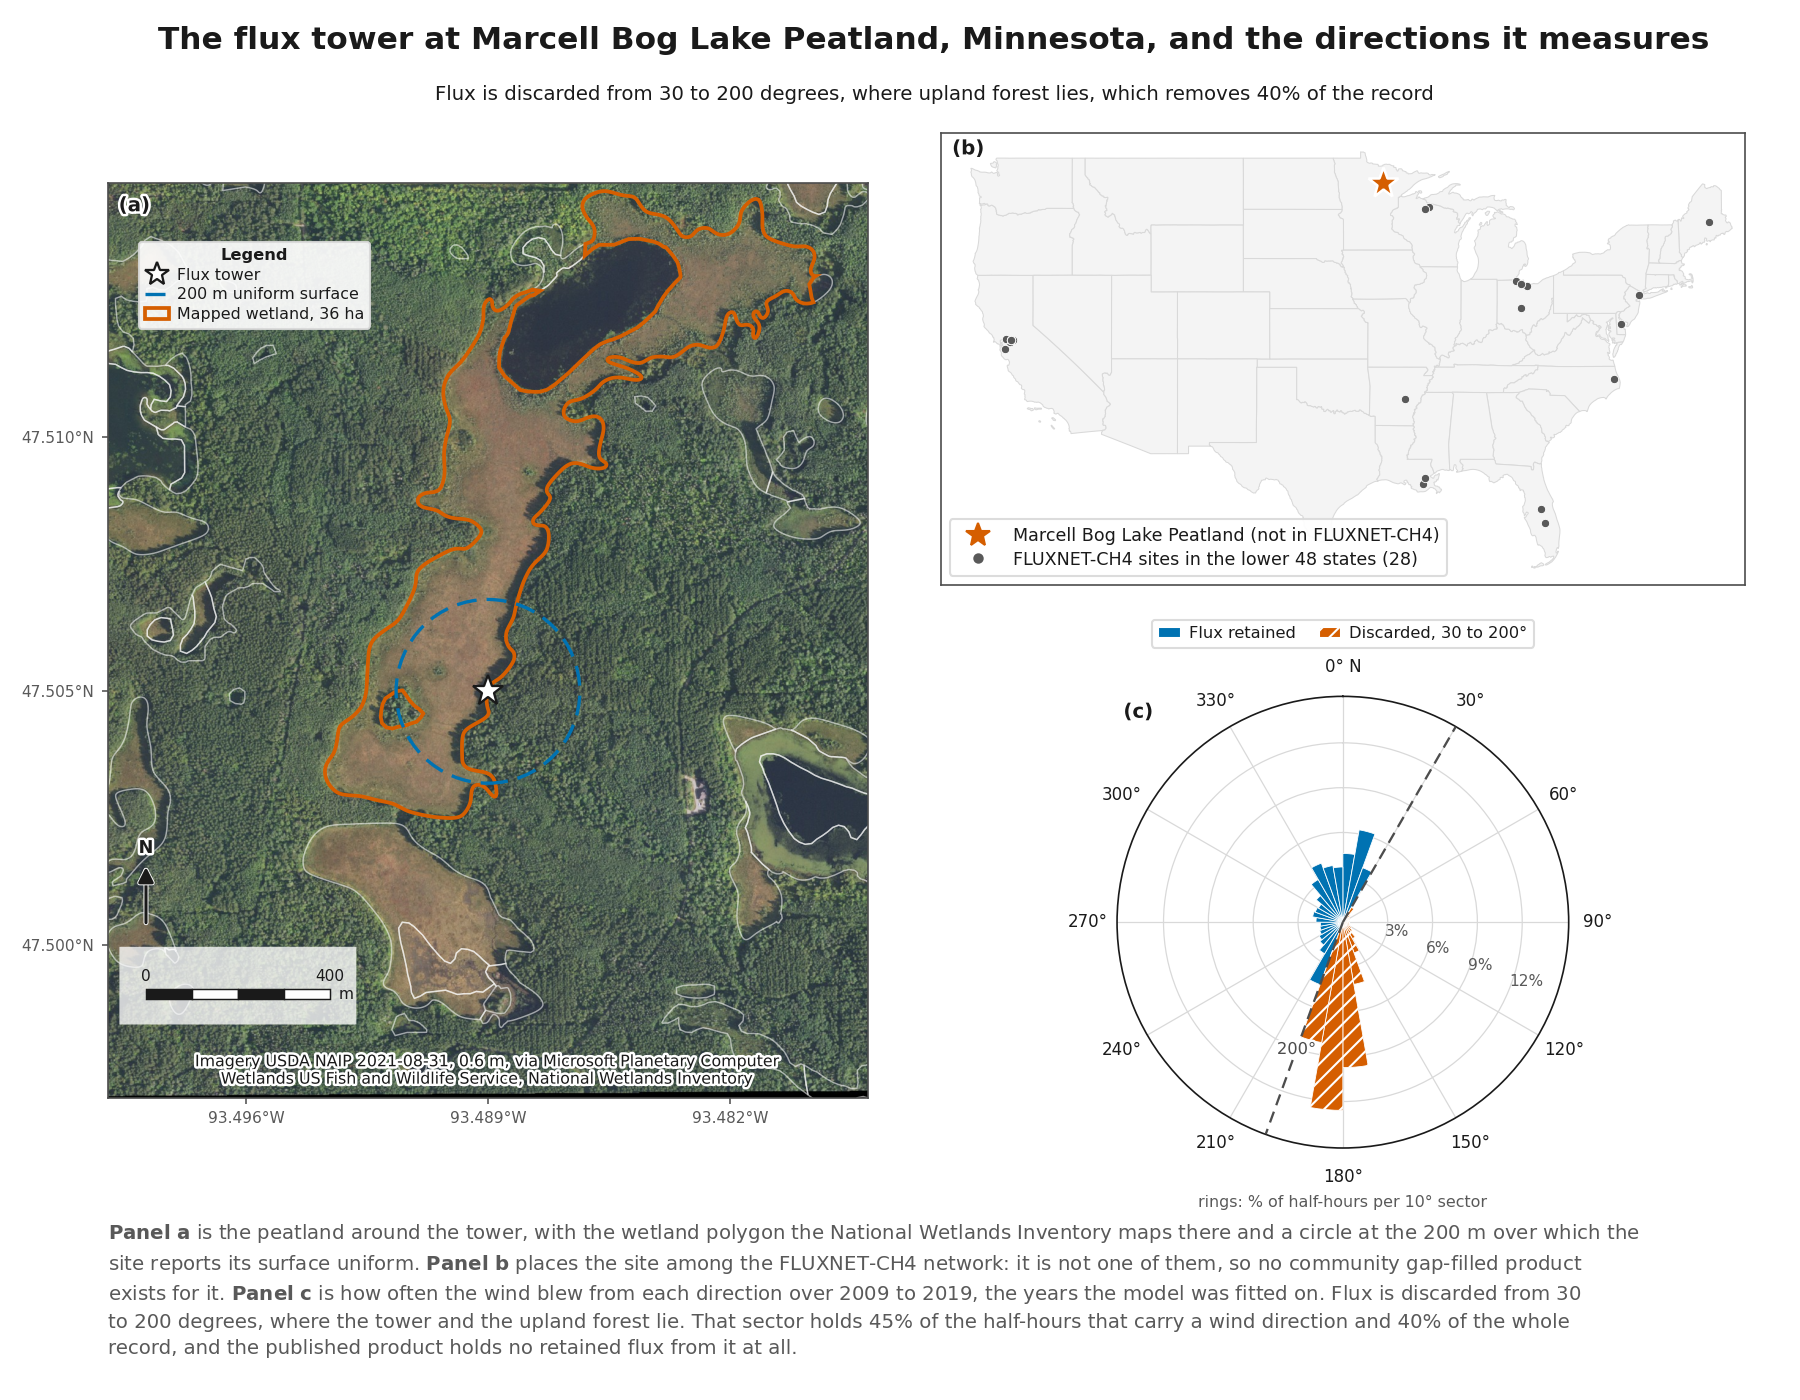
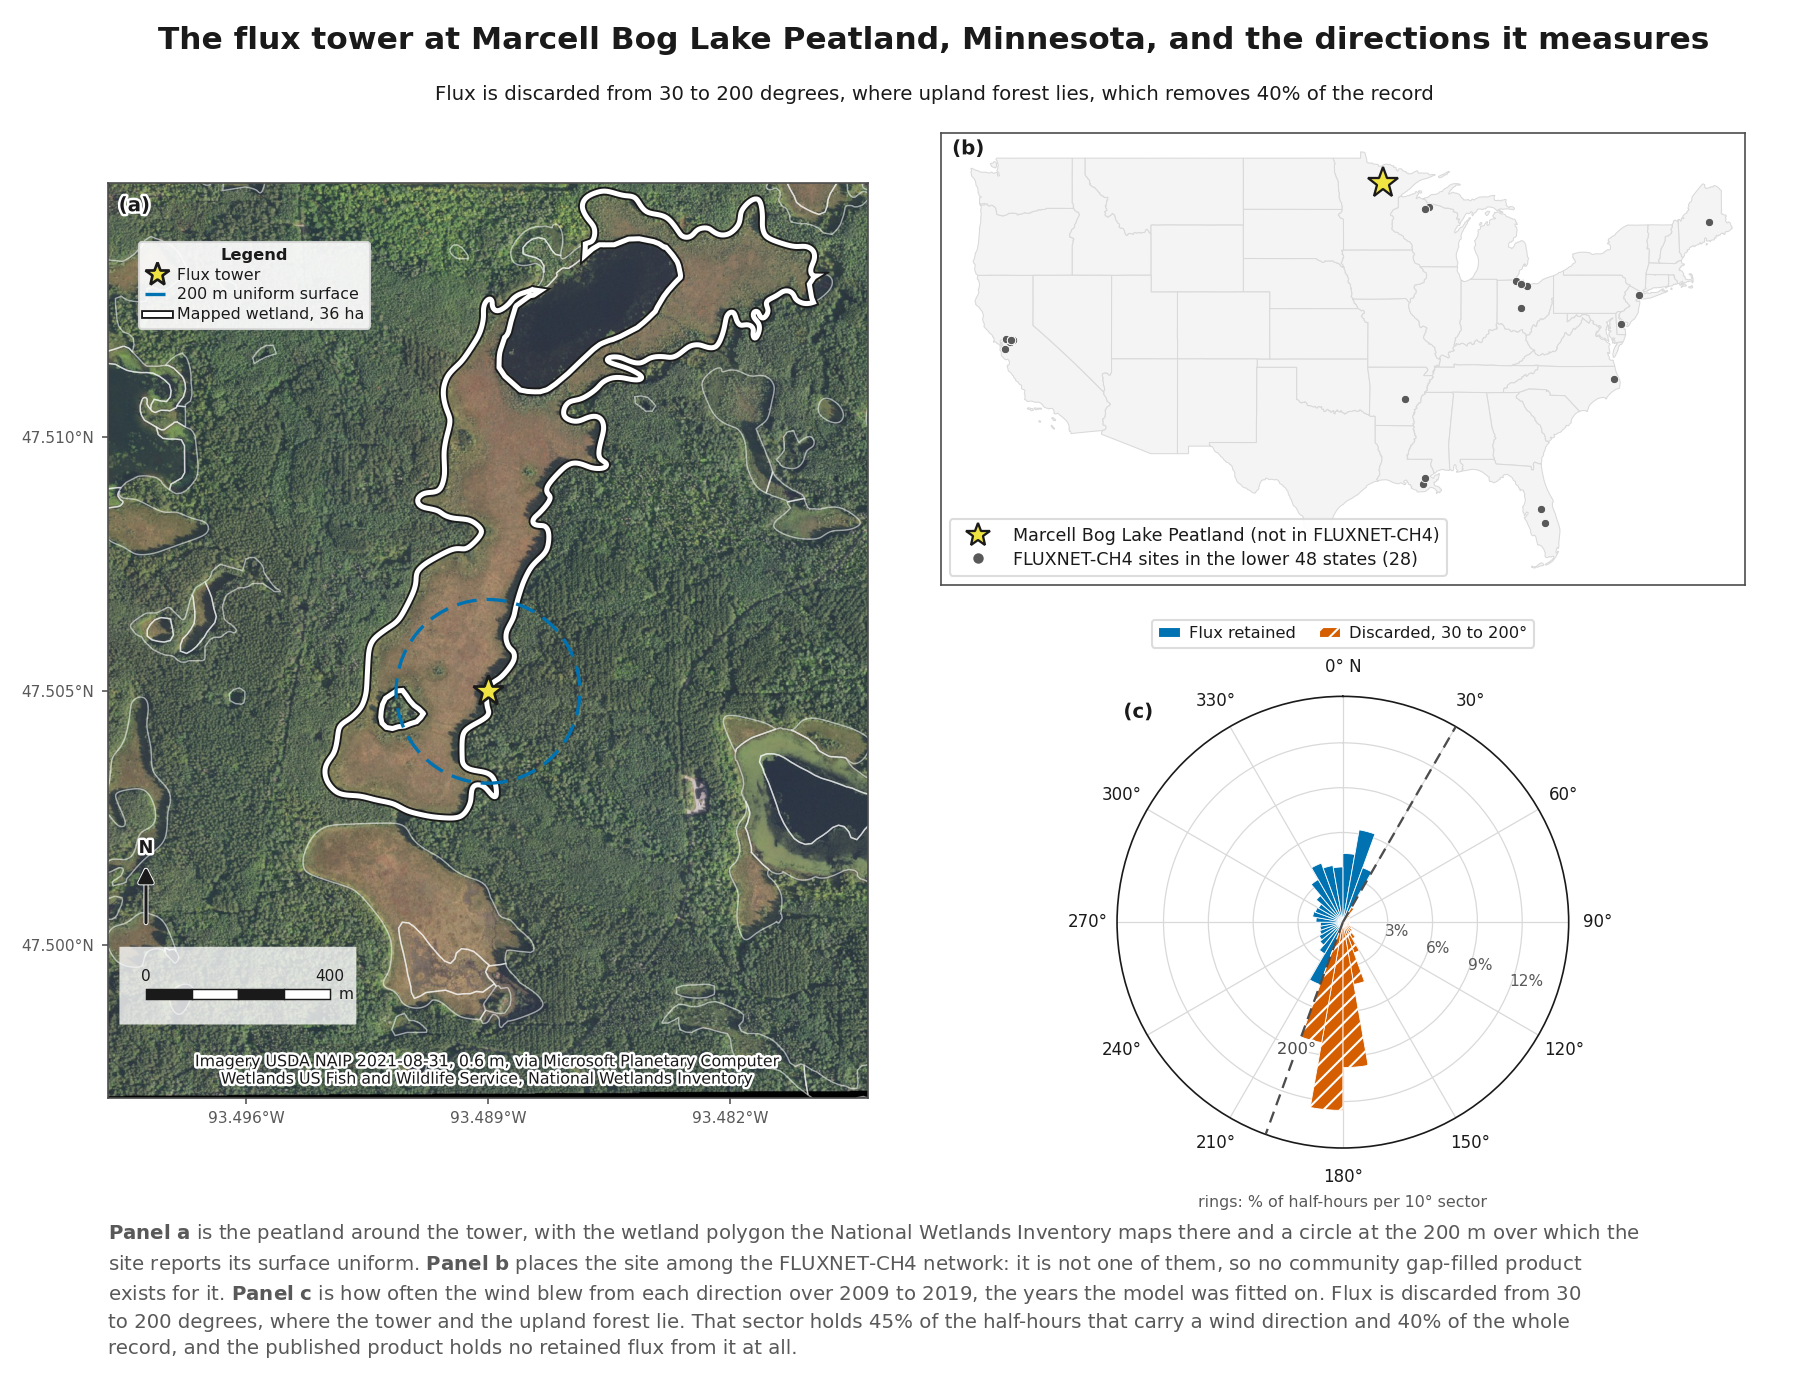
Give the site and tower their own hue

diff --git a/src/study/sitemap.py b/src/study/sitemap.py
@@ -25,6 +25,8 @@ from matplotlib.lines import Line2D
 from matplotlib.patches import Circle, Patch, Polygon
 
 from ingest import paths, site
+import matplotlib.patheffects as pe
+
 from study import plotstyle as ps
 
 #: Extent of the imagery crop, degrees, matching the file stored under geodata/.
@@ -47,8 +49,16 @@ EXCLUDED_SECTOR = (30.0, 200.0)
 #: The tower, drawn the same way on the map and in the legend.
 #: White fill with a dark edge, so the tower reads the same over dark forest,
 #: over light peat, and on the legend's white ground.
-TOWER_MARKER = dict(marker="*", markersize=15, markerfacecolor="white",
-                    markeredgecolor=ps.INK, markeredgewidth=1.1, linestyle="none")
+#: The tower: the one point a reader needs to find first on this panel, so it
+#: takes the emphasis the boundary used to. Cased dark, because the ground beside
+#: it runs from luminance 0.04 under the forest to 0.54 on the bare peat.
+TOWER_MARKER = dict(marker="*", markersize=15, markerfacecolor=ps.SITE,
+                    markeredgecolor=ps.INK, markeredgewidth=1.3, linestyle="none")
+
+#: The same site among the network, in the panel beside it. Same color, same
+#: meaning; cased dark because the states behind it are pale.
+SITE_MARKER = dict(marker="*", markersize=15, markerfacecolor=ps.SITE,
+                   markeredgecolor=ps.INK, markeredgewidth=1.1, linestyle="none")
 
 
 SITEMAP_TEXT = ps.FigureText(
@@ -143,6 +153,17 @@ def to_meters(lon, lat, origin: tuple[float, float]) -> tuple[np.ndarray, np.nda
 # --------------------------------------------------------------------------
 
 
+#: The mapped wetland's boundary: cartography on this panel, not a study
+#: encoding. It took the support orange once, beside a wind rose where orange
+#: meant discarded. Heavy white over a dark casing separates it from the 48 thin
+#: white outlines by weight rather than by hue, and holds against a scene whose
+#: brightest tone is luminance 0.31. Yellow was measured as a fallback at 68.8
+#: from its nearest scene tone and was not needed.
+BOUNDARY_STYLE = {"edgecolor": "white", "linewidth": 2.4,
+                  "path_effects": [pe.Stroke(linewidth=4.2, foreground=ps.INK),
+                                   pe.Normal()]}
+
+
 def draw_site(ax, image, wetlands: dict, origin: tuple[float, float]) -> None:
     """Imagery, the mapped wetland, the tower, and the homogeneity radius."""
     west, south, east, north = IMAGE_BOUNDS
@@ -162,8 +183,8 @@ def draw_site(ax, image, wetlands: dict, origin: tuple[float, float]) -> None:
             if holds_tower:
                 tower_ring = feature["properties"]
                 ax.add_patch(Polygon(np.column_stack([ex, ny]), closed=True,
-                                     facecolor="none", edgecolor=ps.OUTSIDE,
-                                     linewidth=1.8, zorder=3))
+                                     facecolor="none", zorder=3,
+                                     **BOUNDARY_STYLE))
             else:
                 ax.add_patch(Polygon(np.column_stack([ex, ny]), closed=True,
                                      facecolor="none", edgecolor="white",
@@ -191,8 +212,10 @@ def draw_site(ax, image, wetlands: dict, origin: tuple[float, float]) -> None:
                **{**TOWER_MARKER, "markersize": 12}),
         Line2D([], [], color=ps.INSIDE, linestyle=(0, (6, 3)), linewidth=1.6,
                label=f"{SURFACE_HOMOGENEITY_M:.0f} m uniform surface"),
-        Patch(facecolor="none", edgecolor=ps.OUTSIDE, linewidth=1.8,
-              label=f"Mapped wetland, {acres * 0.4047:.0f} ha"),
+        Line2D([], [], linestyle="-", color=BOUNDARY_STYLE["edgecolor"],
+               linewidth=BOUNDARY_STYLE["linewidth"],
+               path_effects=BOUNDARY_STYLE["path_effects"],
+               label=f"Mapped wetland, {acres * 0.4047:.0f} ha"),
     ]
     key = ps.legend(ax, handles=handles, labels=[h.get_label() for h in handles],
                     loc="upper left", fontsize=7.6, borderpad=0.4, labelspacing=0.3,
@@ -231,8 +254,7 @@ def draw_network(ax, states: dict, sites: pd.DataFrame,
     inside = sites[sites.LON.between(-128, -65) & sites.LAT.between(24, 50)]
     ax.plot(inside.LON, inside.LAT, linestyle="none", marker="o", markersize=4.0,
             color=ps.MUTED, markeredgecolor="white", markeredgewidth=0.4, zorder=3)
-    ax.plot(here[0], here[1], marker="*", markersize=15, color=ps.OUTSIDE,
-            markeredgecolor="white", markeredgewidth=1.2, zorder=5)
+    ax.plot(here[0], here[1], **SITE_MARKER, zorder=5)
 
     ax.set_xlim(-127, -66); ax.set_ylim(23.5, 50.5)
     ax.set_aspect(1 / math.cos(math.radians(38)))
@@ -242,7 +264,7 @@ def draw_network(ax, states: dict, sites: pd.DataFrame,
         spine.set_edgecolor(ps.BOUNDARY)
 
     handles = [
-        Line2D([], [], marker="*", color=ps.OUTSIDE, linestyle="none", markersize=12,
+        Line2D([], [], **{**SITE_MARKER, "markersize": 12},
                label=f"{site.SITE_NAME} (not in FLUXNET-CH4)"),
         Line2D([], [], marker="o", color=ps.MUTED, linestyle="none", markersize=4,
                label=f"FLUXNET-CH4 sites in the lower 48 states ({len(inside)})"),

diff --git a/tests/test_sitemap.py b/tests/test_sitemap.py
@@ -68,12 +68,23 @@ def test_a_two_hundred_meter_radius_is_a_circle_on_the_metric_grid():
     ps.plt.close(fig)
 
 
-def test_the_tower_polygon_is_distinguished_from_its_neighbors():
+def test_the_tower_polygon_is_distinguished_by_weight_not_by_a_study_hue():
+    """The boundary is cartography, so it must not borrow the support encoding.
+
+    It took the support orange once, beside a wind rose where orange meant
+    discarded, which is the collision the palette convention exists to prevent.
+    Emphasis now comes from line weight against the other mapped polygons.
+    """
+    from matplotlib.colors import to_rgba
+
     fig = sitemap.site_overview(image(), wetlands(), states(), sites(), shares())
     ax = fig.axes[0]
-    edges = [p.get_edgecolor() for p in ax.patches if type(p).__name__ == "Polygon"]
-    from matplotlib.colors import to_rgba
-    assert to_rgba(ps.OUTSIDE) in edges
+    polygons = [p for p in ax.patches if type(p).__name__ == "Polygon"]
+    widths = sorted(p.get_linewidth() for p in polygons)
+    assert widths[-1] >= 2 * widths[0], "the mapped wetland is not heavier than its neighbors"
+    for polygon in polygons:
+        assert polygon.get_edgecolor() != to_rgba(ps.OUTSIDE)
+        assert polygon.get_edgecolor() != to_rgba(ps.INSIDE)
     ps.plt.close(fig)
 
 
@@ -158,3 +169,49 @@ def test_the_wind_record_is_restricted_to_the_study_window():
     counts = sitemap.wind_shares().attrs
     assert counts["half_hours"] == 192816       # 2009-01 to 2019-12
     assert counts["with_wind_direction"] == 172639
+
+
+def test_the_site_is_yellow_in_both_panels_so_the_star_means_one_thing():
+    """A reader meeting a star in both panels assumes it means the same thing."""
+    from matplotlib.colors import to_rgba
+
+    fig = sitemap.site_overview(image(), wetlands(), states(), sites(), shares())
+    site_panel, network = fig.axes[0], fig.axes[1]
+    stars = [l for ax in (site_panel, network) for l in ax.lines if l.get_marker() == "*"]
+    assert len(stars) >= 2
+    for star in stars:
+        assert to_rgba(star.get_markerfacecolor()) == to_rgba(ps.SITE)
+        assert to_rgba(star.get_markeredgecolor()) == to_rgba(ps.INK), "needs a dark casing"
+    ps.plt.close(fig)
+
+
+def test_orange_now_means_only_discarded_on_this_figure():
+    """It marked the wetland boundary and the site star as well, which it no longer does."""
+    from matplotlib.colors import to_rgba
+
+    fig = sitemap.site_overview(image(), wetlands(), states(), sites(), shares())
+    orange = to_rgba(ps.OUTSIDE)
+    for ax in (fig.axes[0], fig.axes[1]):
+        for line in ax.lines:
+            assert to_rgba(line.get_markerfacecolor()) != orange
+            assert to_rgba(line.get_markeredgecolor()) != orange
+        for patch in ax.patches:
+            assert to_rgba(patch.get_facecolor()) != orange
+            assert to_rgba(patch.get_edgecolor()) != orange
+    # The wind rose is the one place it survives, where it does mean discarded.
+    rose = fig.axes[2]
+    assert any(to_rgba(p.get_facecolor()) == orange for p in rose.patches)
+    ps.plt.close(fig)
+
+
+def test_a_white_casing_would_vanish_on_the_network_panel():
+    """Why the star is cased dark: the states behind it are near-white."""
+    def luminance(value: str) -> float:
+        rgb = np.array([int(value[i:i + 2], 16) / 255 for i in (1, 3, 5)])
+        linear = np.where(rgb <= 0.04045, rgb / 12.92, ((rgb + 0.055) / 1.055) ** 2.4)
+        return float(np.dot(linear, [0.2126, 0.7152, 0.0722]))
+
+    # A white casing is a tenth of the scale from the ground it would sit on; the
+    # dark one is nine tenths of it away.
+    assert abs(luminance("#FFFFFF") - luminance("#F4F4F4")) < 0.10
+    assert abs(luminance(ps.INK) - luminance("#F4F4F4")) > 0.85

diff --git a/src/study/plotstyle.py b/src/study/plotstyle.py
@@ -46,15 +46,23 @@ from ingest import paths
 # apart under deuteranopia and 93.3 under protanopia.
 #
 #   FITTED  #009E73  the range across the eight fitted models
+#   SITE    #F0E442  the site, and the tower on it
 #
-# Scoped to the two forecast figures only. It exists because the study's halves
+# `FITTED` is scoped to the two forecast figures only. It exists because the study's halves
 # ask different questions: the reconstruction figures are about support and the
 # forecast figures are about method, so neither set needs the other's encoding.
 # A second blue was tried here and removed, because blue already means retained.
 #
+# `SITE` marks the flux tower in the site panel and the same site among the
+# network in the panel beside it. A reader meeting a star in both panels assumes
+# it means the same thing, and it does. It carries a dark casing in both, because
+# it measures 0.161 in luminance from the pale state fill and 0.207 from the
+# brightest ground near the tower, and a white casing would vanish on the first.
+#
 # Anything else carrying a hue is cartography rather than encoding, is local to
 # the panel it appears on, and is not a general-purpose accent. The mapped
-# wetland boundary on the site map is the only such case.
+# wetland boundary is the only such case: heavy white over a dark casing, which
+# separates from its thin white neighbors by weight rather than by hue.
 #
 # **None of these is available for reuse on a new figure without first checking
 # what it already means.** That check has failed twice: sky blue was introduced
@@ -63,6 +71,11 @@ from ingest import paths
 # Both were caught after the figure was built rather than before.
 INSIDE = "#0072B2"
 OUTSIDE = "#D55E00"
+
+#: The site and its tower, on the site map only. Okabe-Ito yellow, measured
+#: against the imagery it sits on: 41.3 from the light peat beside the tower and
+#: 101.5 from the dark forest, under the worst simulated deficiency.
+SITE = "#F0E442"
 
 #: The fitted models in the two forecast figures, per the convention above.
 #: Okabe-Ito bluish green, chosen by measurement: it clears `INSIDE` by 20.9 and

diff --git a/notes/study.md b/notes/study.md
@@ -973,6 +973,47 @@ Vector output is not produced. These are read in a README, which will not displa
 one, and every figure is regenerable from its function if a document ever needs
 one.
 
+## The palette convention, and the two collisions that produced it
+
+Recorded in `src/study/plotstyle.py`. Three hues carry meaning across the set and
+each carries exactly one:
+
+| | | |
+|---|---|---|
+| `INSIDE` | `#0072B2` | inside, or retained |
+| `OUTSIDE` | `#D55E00` | outside, or discarded |
+| `FITTED` | `#009E73` | the range across the eight fitted models |
+| `SITE` | `#F0E442` | the site, and the tower on it |
+
+The first two are the support encoding, and they are the strongest separation in
+the set: 111.7 apart under deuteranopia and 93.3 under protanopia. `FITTED` is
+scoped to the two forecast figures, and exists because the study's halves ask
+different questions. `SITE` is the site map only.
+
+The mapped wetland boundary is cartography rather than an encoding: heavy white
+over a dark casing, separating from its 48 thin white neighbors by weight. Yellow
+was measured as a fallback at 68.8 from its nearest scene tone and was not needed.
+
+**None of these is available for reuse without checking what it already means,
+and that check has failed twice.** Sky blue was introduced for the fitted range
+beside a blue that already meant retained. The support orange was borrowed for
+the wetland boundary beside a wind rose where orange meant discarded, and it also
+marked the site in the network panel, so one hue was doing three jobs on one
+figure. Both were caught after the figure was built.
+
+**What the contrast checks established.** The imagery was sampled rather than
+assumed: the scene is uniformly dark, six dominant tones from `#2D3939` to
+`#8A8B6F`, median luminance 0.114 and only 0.02% of pixels above 0.5. Against the
+ground beside the tower, which runs from 0.04 under the forest to 0.54 on bare
+peat, yellow measures 41.3 from the light peat and 101.5 from the dark forest
+under the worst simulated deficiency. It is cased dark in both panels, because on
+the network panel it sits 0.161 in luminance from the pale state fill and a white
+casing would be 0.095 from it, effectively invisible.
+
+Emphasis was also moved. The boundary had been loud and the tower quiet, which
+had it backwards: the tower is one point and the subject of the panel, the
+boundary is context.
+
 ## Data caveats beyond the study windows
 
 **The water table series steps by about 2 m at 2020-01 and never returns.** Every
